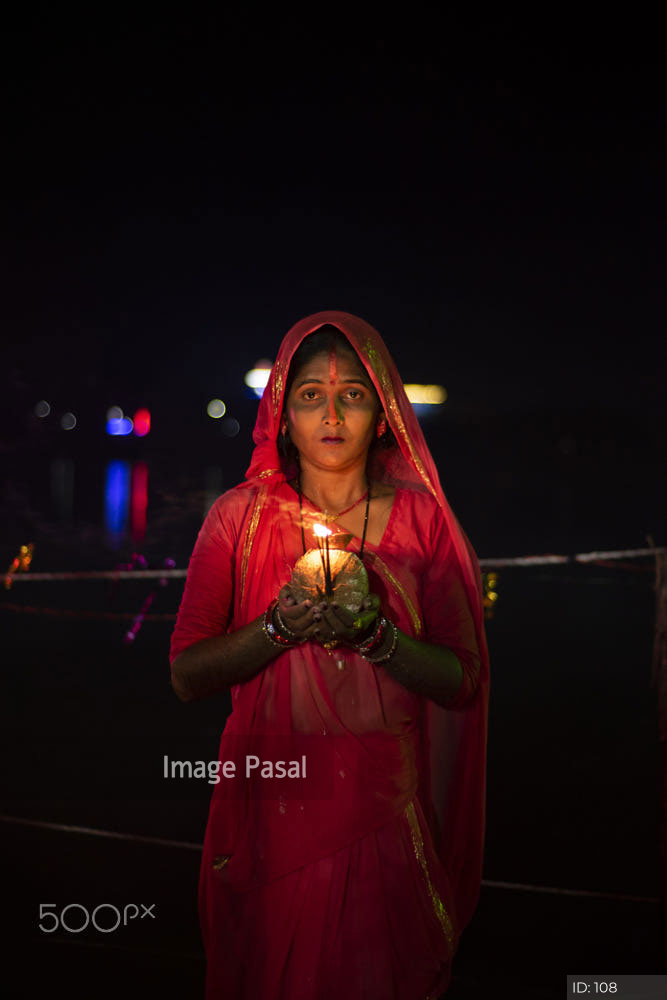
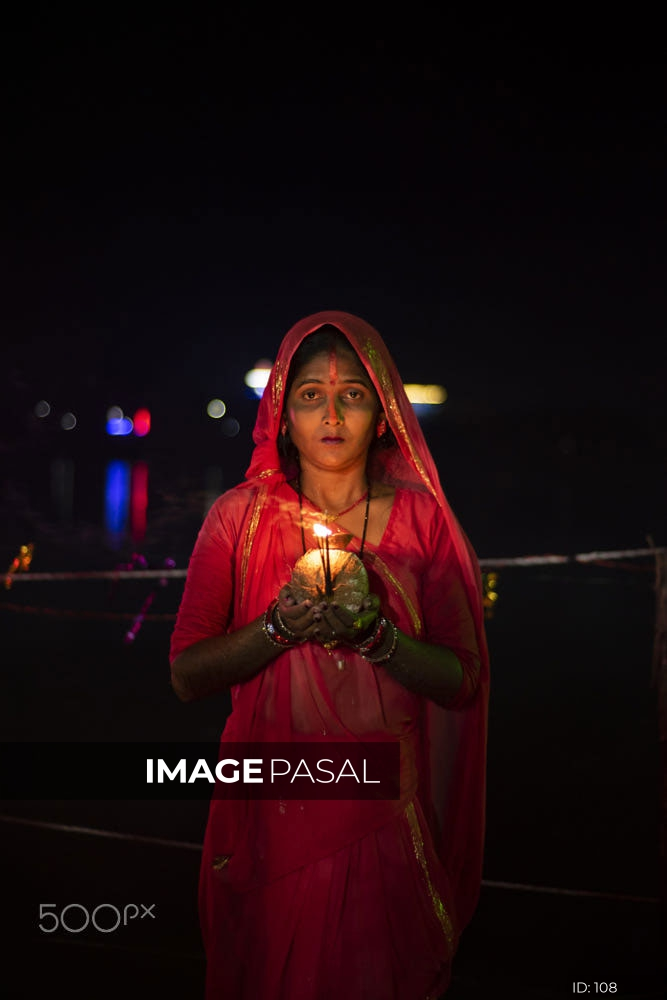
update watermark

Changed region(s): [[0.2099, 0.744, 0.5997, 0.806], [0.8396, 0.961, 1.0, 1.0]]

diff --git a/wp-content/themes/photosofnepal/src/watermark.php b/wp-content/themes/photosofnepal/src/watermark.php
@@ -21,7 +21,7 @@ function get_text_watermarked_image( $imageId, $text ) {
 	$manager = new ImageManager();
 
 	$image     = $manager->make( $imageSource );
-	$watermark = $manager->make( get_template_directory() . '/assets/images/water-mark.png' );
+	$watermark = $manager->make( get_template_directory() . '/assets/images/watermark_logo.png' );
 
 	$id_watermark = $manager->canvas( 200, 50, '#000000' )->opacity( 10 );
 
@@ -35,7 +35,7 @@ function get_text_watermarked_image( $imageId, $text ) {
 //	$id_watermark->save( "id_watermark.jpg" );
 
 	if ( $imageWidth > $imageHeight ) {
-		$watermark->resize( round( $imageWidth * 0.30 ), null, function ( $constraint ) {
+		$watermark->resize( round( $imageWidth * 0.40 ), null, function ( $constraint ) {
 			$constraint->aspectRatio();
 			$constraint->upsize();
 		} );
@@ -45,7 +45,7 @@ function get_text_watermarked_image( $imageId, $text ) {
 			$constraint->upsize();
 		} );
 	} else {
-		$watermark->resize( round( $imageWidth * 0.50 ), null, function ( $constraint ) {
+		$watermark->resize( round( $imageWidth * 0.60 ), null, function ( $constraint ) {
 			$constraint->aspectRatio();
 			$constraint->upsize();
 		} );
